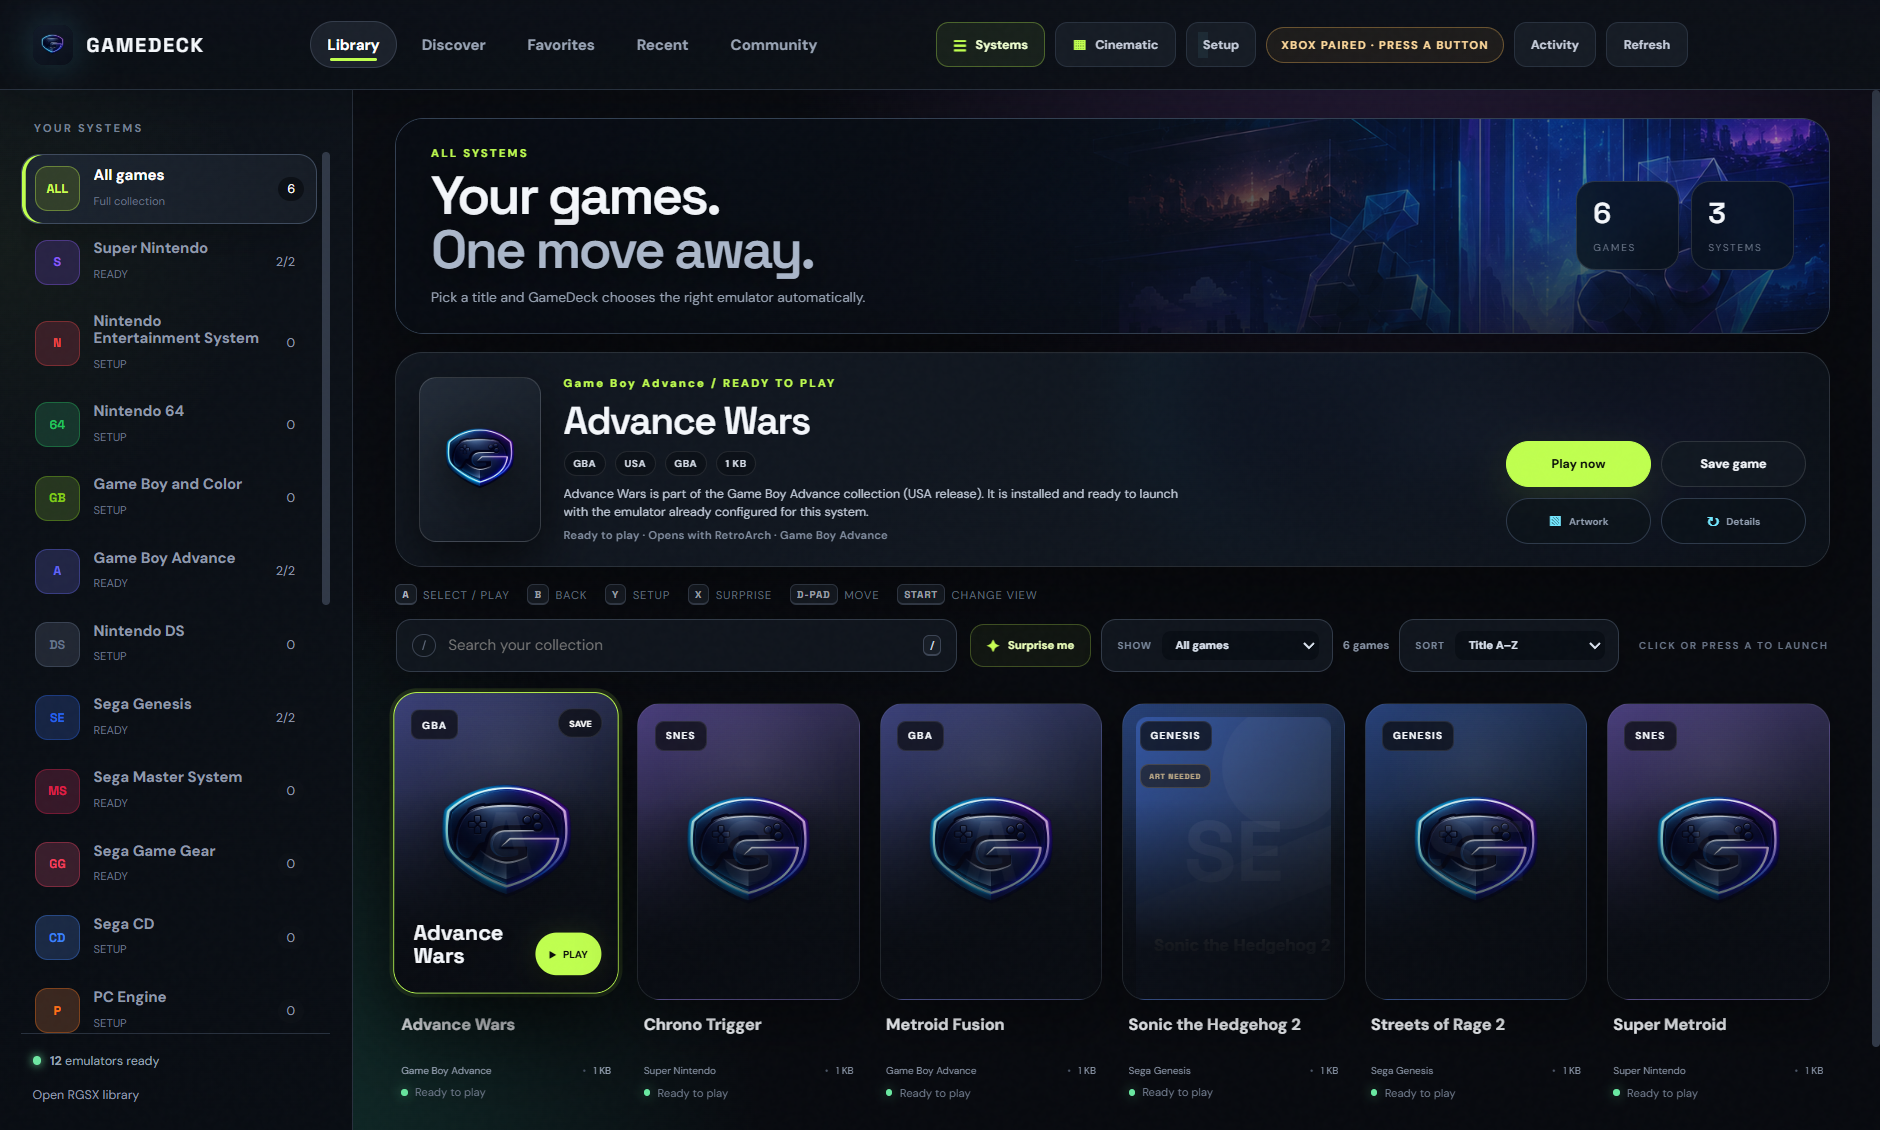
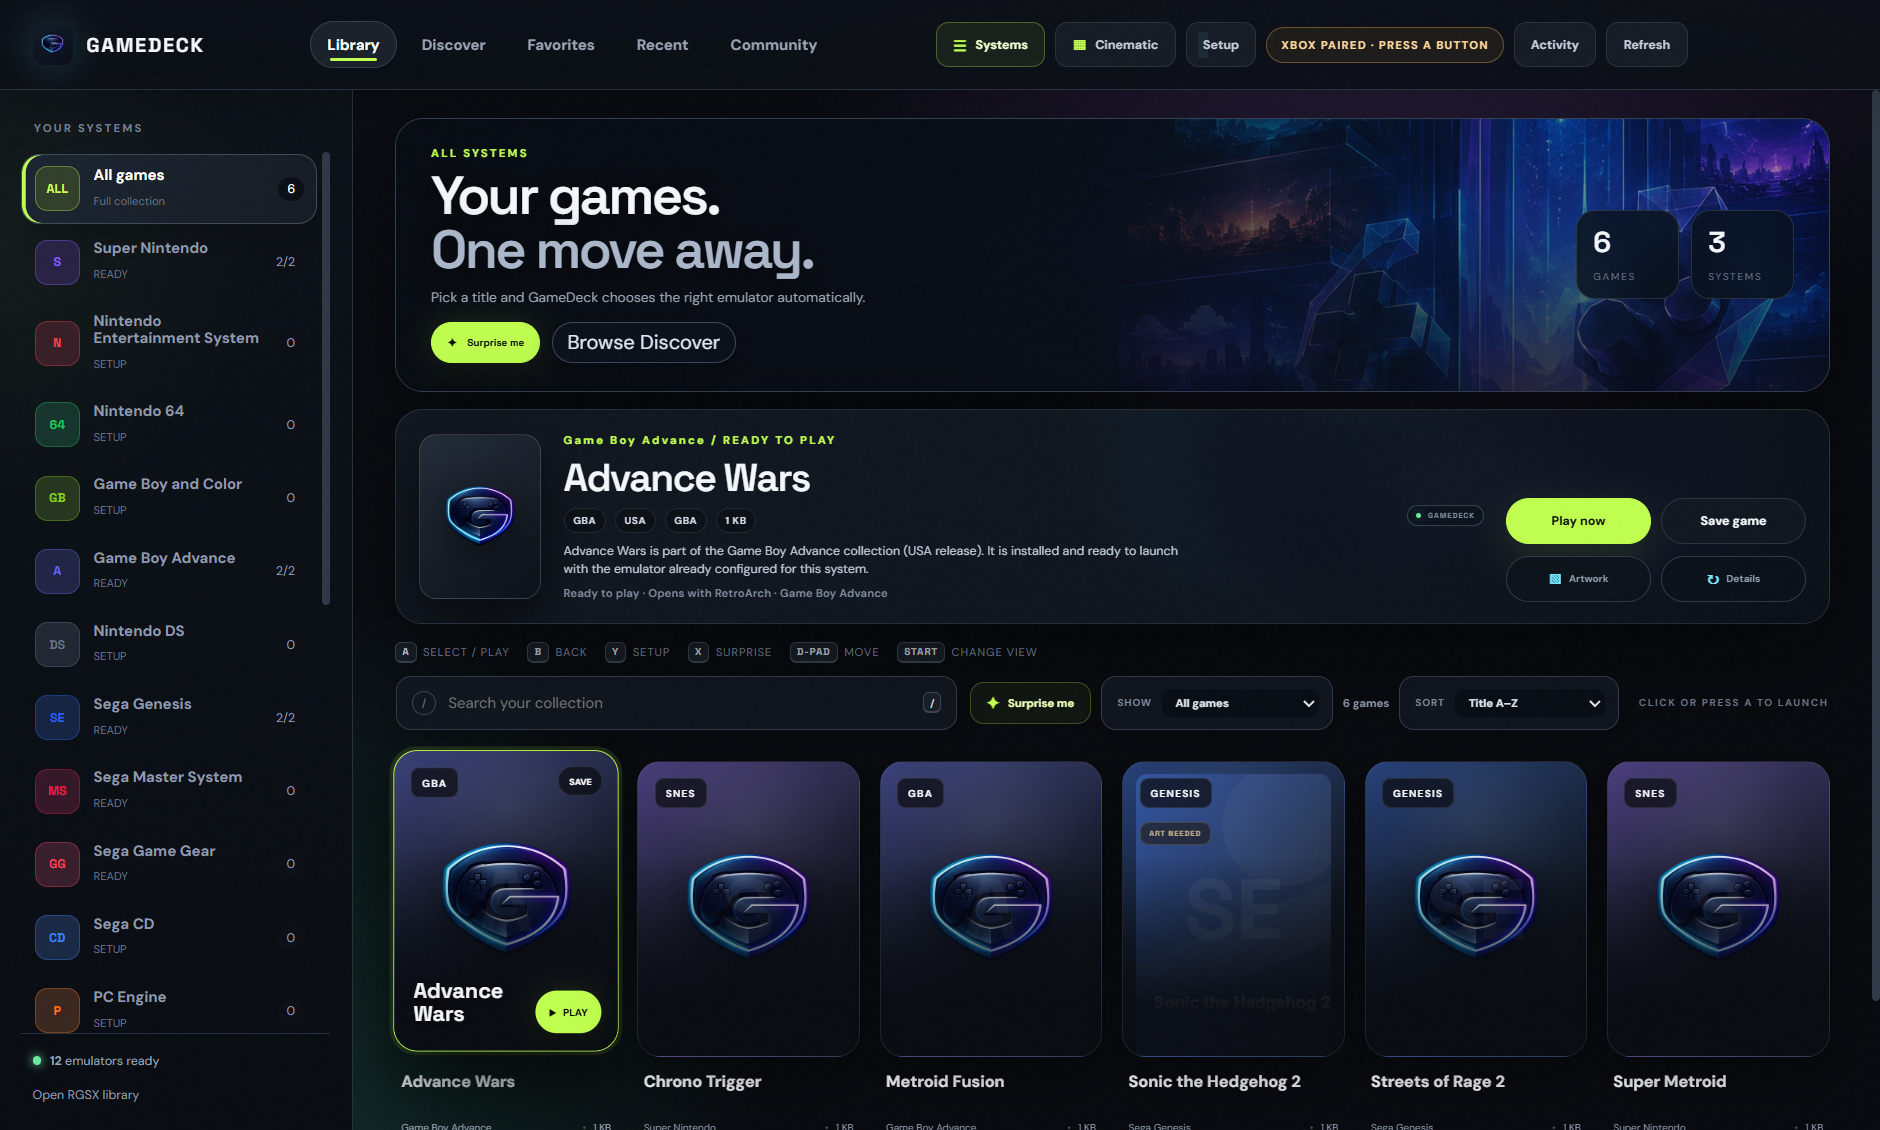
feat: add smart resume and persistent shelf context

diff --git a/CHANGELOG.md b/CHANGELOG.md
@@ -7,6 +7,7 @@ All notable GameDeck releases are documented here.
 - Replaced the rotating loading spinner with a calm four-stage startup panel for library, launcher, artwork, and control readiness.
 - Added context-aware hero actions that continue the latest playable game, choose a surprise title, or open setup when needed.
 - Added immediate opening-state feedback on game cards and a visible metadata-source badge in the selected-game spotlight.
+- Library shelves now remember focused titles and scroll position when switching views or consoles.
 - Added a zero-hassle ready check for game-library, emulator, artwork, and controller status with direct setup actions.
 - Added a controller-friendly **Surprise me** action for selecting a random playable game from the current shelf.
 - Added manual cover correction and one-click metadata refresh from the selected-game spotlight.

diff --git a/README.md b/README.md
@@ -31,6 +31,7 @@ GameDeck does **not** include ROMs, BIOS files, encryption keys, or commercial g
 - A calm four-stage startup panel that reports library, launcher, artwork, and control readiness
 - Context-aware hero actions for continuing a recent game, choosing a surprise title, or finishing setup
 - Immediate launch feedback and visible metadata-source continuity in the selected-game spotlight
+- Remembers focus and scroll position independently across Library, Favorites, Recent, and console shelves
 - A built-in ready check for library, launcher, artwork, and controller setup
 - One-click **Surprise me** picks a random playable title from the current shelf
 - Manual cover correction and one-click metadata refresh for titles that need a better match
